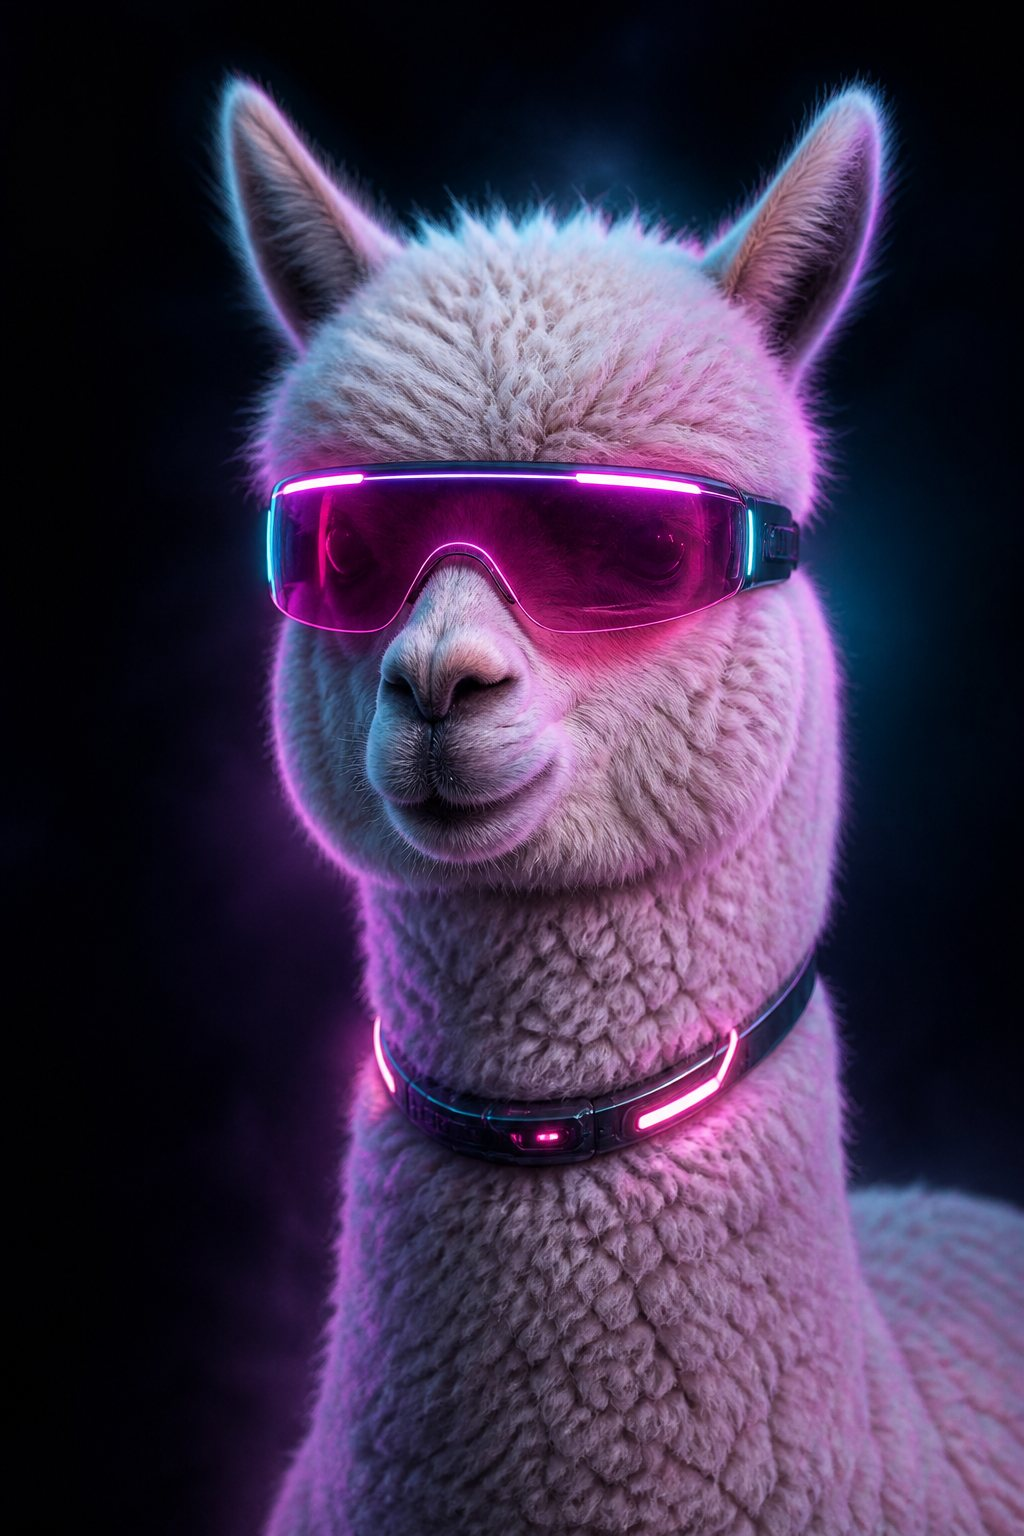
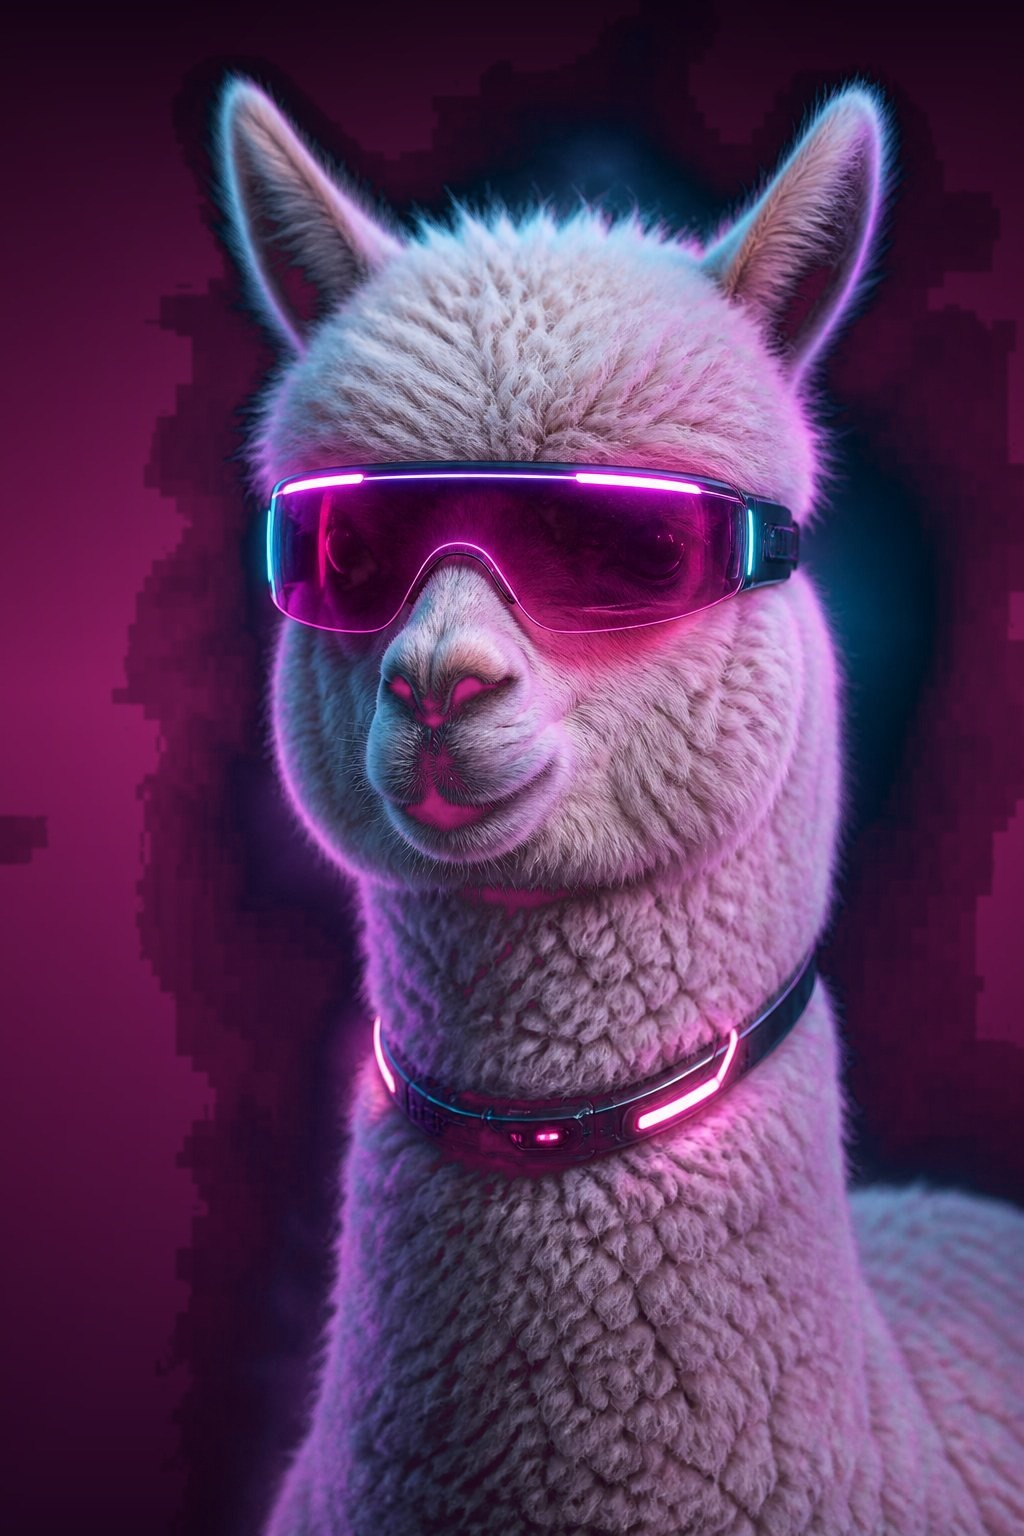
Give Code Red and Nova atmospheric color-field heroes
Match the approved mock: Code Red landing sits in a deep crimson
field, Nova in a magenta/pink field. Recomposite portrait and
turntable frames onto colored atmospheres and soften hero plates
so the creatures blend into their respective backdrops.

diff --git a/styles.css b/styles.css
@@ -296,23 +296,103 @@ figure { margin: 0; }
   font-size: 9.5px;
 }
 
-/* Aathira's Code Red — landing hero, crimson thermal accent */
+/* Aathira's Code Red — landing hero, crimson atmospheric field */
 .hero-code-red {
   --ac: #ff2222;
   --ac2: #ff6a00;
   --ac3: #ff9d9d;
-  --ac-dim: rgba(255, 34, 34, 0.14);
-  --ac-glow: rgba(255, 34, 34, 0.36);
+  --ac-dim: rgba(255, 34, 34, 0.18);
+  --ac-glow: rgba(255, 48, 32, 0.42);
+  background:
+    radial-gradient(58% 50% at 50% 40%, rgba(255, 55, 40, 0.42), transparent 72%),
+    radial-gradient(95% 80% at 50% 100%, rgba(70, 0, 0, 0.75), transparent 58%),
+    linear-gradient(180deg, #1c0202 0%, #6e0a0a 36%, #b41212 70%, #3a0505 100%);
 }
+.hero-code-red::before {
+  background:
+    radial-gradient(46% 38% at 50% 36%, rgba(255, 70, 40, 0.28), transparent 72%);
+  opacity: 1;
+}
+.hero-code-red .hero-ghost span {
+  -webkit-text-stroke-color: rgba(255, 210, 190, 0.16);
+}
+.hero-code-red .hero-ghost span:first-child {
+  color: rgba(255, 220, 200, 0.07);
+}
+.hero-code-red .hero-title .painted {
+  text-shadow: 0 0 28px rgba(255, 40, 30, 0.55), 0 2px 0 rgba(0, 0, 0, 0.35);
+}
+.hero-code-red .hero-spec,
+.hero-code-red .hero-tag,
+.hero-code-red .hero-scroll {
+  color: rgba(255, 170, 150, 0.92);
+}
+.hero-code-red .hero-spec p:first-child { color: #fff; }
+.hero-code-red .hero-footer {
+  border-top-color: rgba(255, 180, 160, 0.2);
+  color: rgba(255, 170, 150, 0.85);
+  background: linear-gradient(180deg, transparent, rgba(40, 0, 0, 0.4));
+}
+.hero-code-red .hero-stage { background: transparent; }
+.hero-code-red .hero-render {
+  -webkit-mask-image: radial-gradient(125% 115% at 50% 42%, #000 48%, transparent 90%);
+          mask-image: radial-gradient(125% 115% at 50% 42%, #000 48%, transparent 90%);
+}
+.hero-code-red .hero-render > .render-vignette {
+  background:
+    radial-gradient(120% 105% at 50% 42%, transparent 58%, rgba(90, 0, 0, 0.45) 100%),
+    linear-gradient(180deg, rgba(60, 0, 0, 0.15) 0%, transparent 24%, transparent 62%, rgba(50, 0, 0, 0.55) 100%);
+}
+.hero-code-red .scanline { opacity: 0.35; }
 
-/* Aathira's Nova — second hero keeps pink accent */
+/* Aathira's Nova — second hero, magenta/pink atmospheric field */
 .hero-nova {
   --ac: #ff2ea6;
   --ac2: #8b5cf6;
   --ac3: #46e6e6;
-  --ac-dim: rgba(255, 46, 166, 0.14);
-  --ac-glow: rgba(255, 46, 166, 0.32);
+  --ac-dim: rgba(255, 46, 166, 0.18);
+  --ac-glow: rgba(255, 70, 180, 0.4);
+  background:
+    radial-gradient(58% 50% at 50% 40%, rgba(255, 70, 180, 0.38), transparent 72%),
+    radial-gradient(95% 80% at 50% 100%, rgba(60, 0, 50, 0.72), transparent 58%),
+    linear-gradient(180deg, #160314 0%, #5a0a45 36%, #a01878 70%, #2a0822 100%);
 }
+.hero-nova::before {
+  background:
+    radial-gradient(46% 38% at 50% 36%, rgba(255, 90, 200, 0.26), transparent 72%);
+  opacity: 1;
+}
+.hero-nova .hero-ghost span {
+  -webkit-text-stroke-color: rgba(255, 200, 230, 0.16);
+}
+.hero-nova .hero-ghost span:first-child {
+  color: rgba(255, 210, 235, 0.07);
+}
+.hero-nova .hero-title .painted {
+  text-shadow: 0 0 28px rgba(255, 46, 166, 0.55), 0 2px 0 rgba(0, 0, 0, 0.35);
+}
+.hero-nova .hero-spec,
+.hero-nova .hero-tag,
+.hero-nova .hero-scroll {
+  color: rgba(255, 170, 210, 0.92);
+}
+.hero-nova .hero-spec p:first-child { color: #fff; }
+.hero-nova .hero-footer {
+  border-top-color: rgba(255, 180, 220, 0.2);
+  color: rgba(255, 170, 210, 0.85);
+  background: linear-gradient(180deg, transparent, rgba(40, 0, 35, 0.4));
+}
+.hero-nova .hero-stage { background: transparent; }
+.hero-nova .hero-render {
+  -webkit-mask-image: radial-gradient(125% 115% at 50% 42%, #000 48%, transparent 90%);
+          mask-image: radial-gradient(125% 115% at 50% 42%, #000 48%, transparent 90%);
+}
+.hero-nova .hero-render > .render-vignette {
+  background:
+    radial-gradient(120% 105% at 50% 42%, transparent 58%, rgba(70, 0, 55, 0.45) 100%),
+    linear-gradient(180deg, rgba(50, 0, 40, 0.15) 0%, transparent 24%, transparent 62%, rgba(40, 0, 35, 0.55) 100%);
+}
+.hero-nova .scanline { opacity: 0.35; }
 
 /* ============================================================
    SPECIES SHOWCASE
